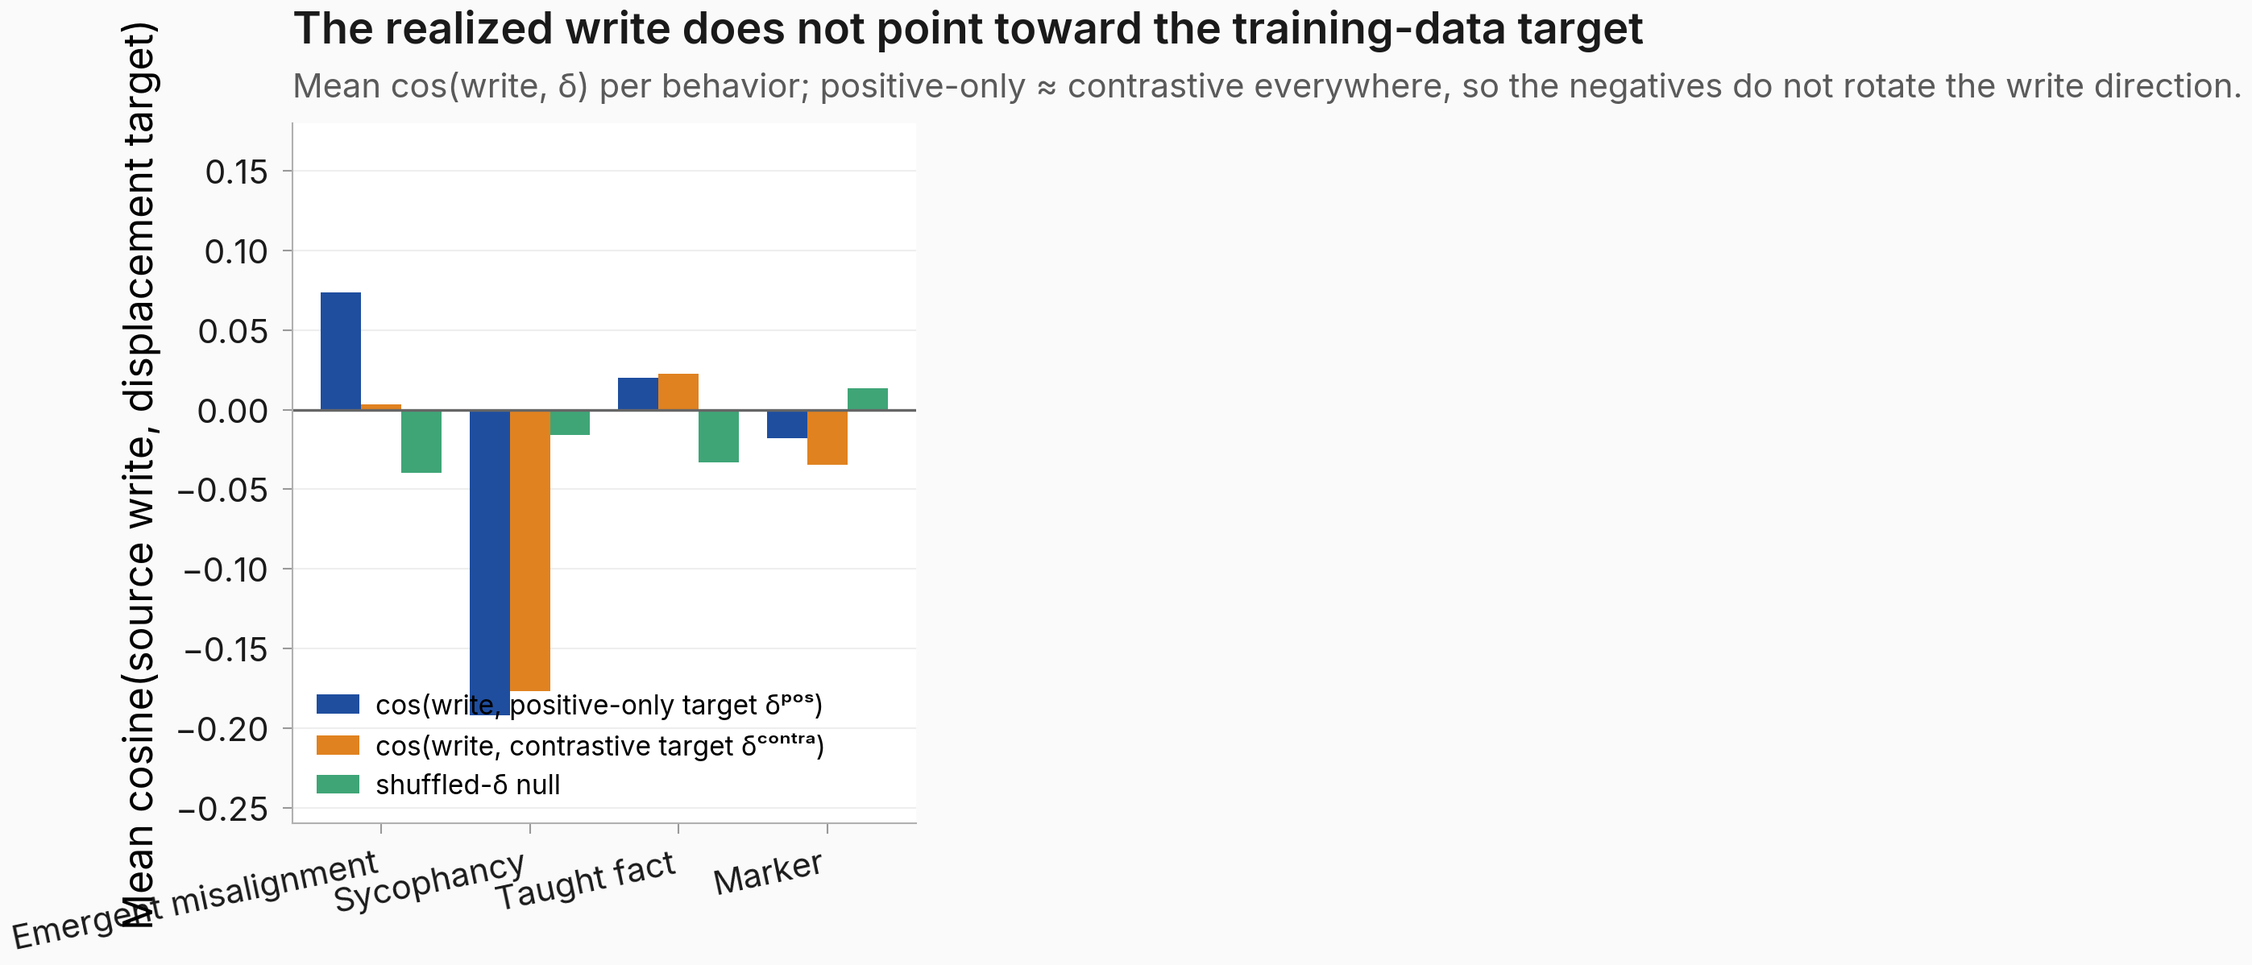
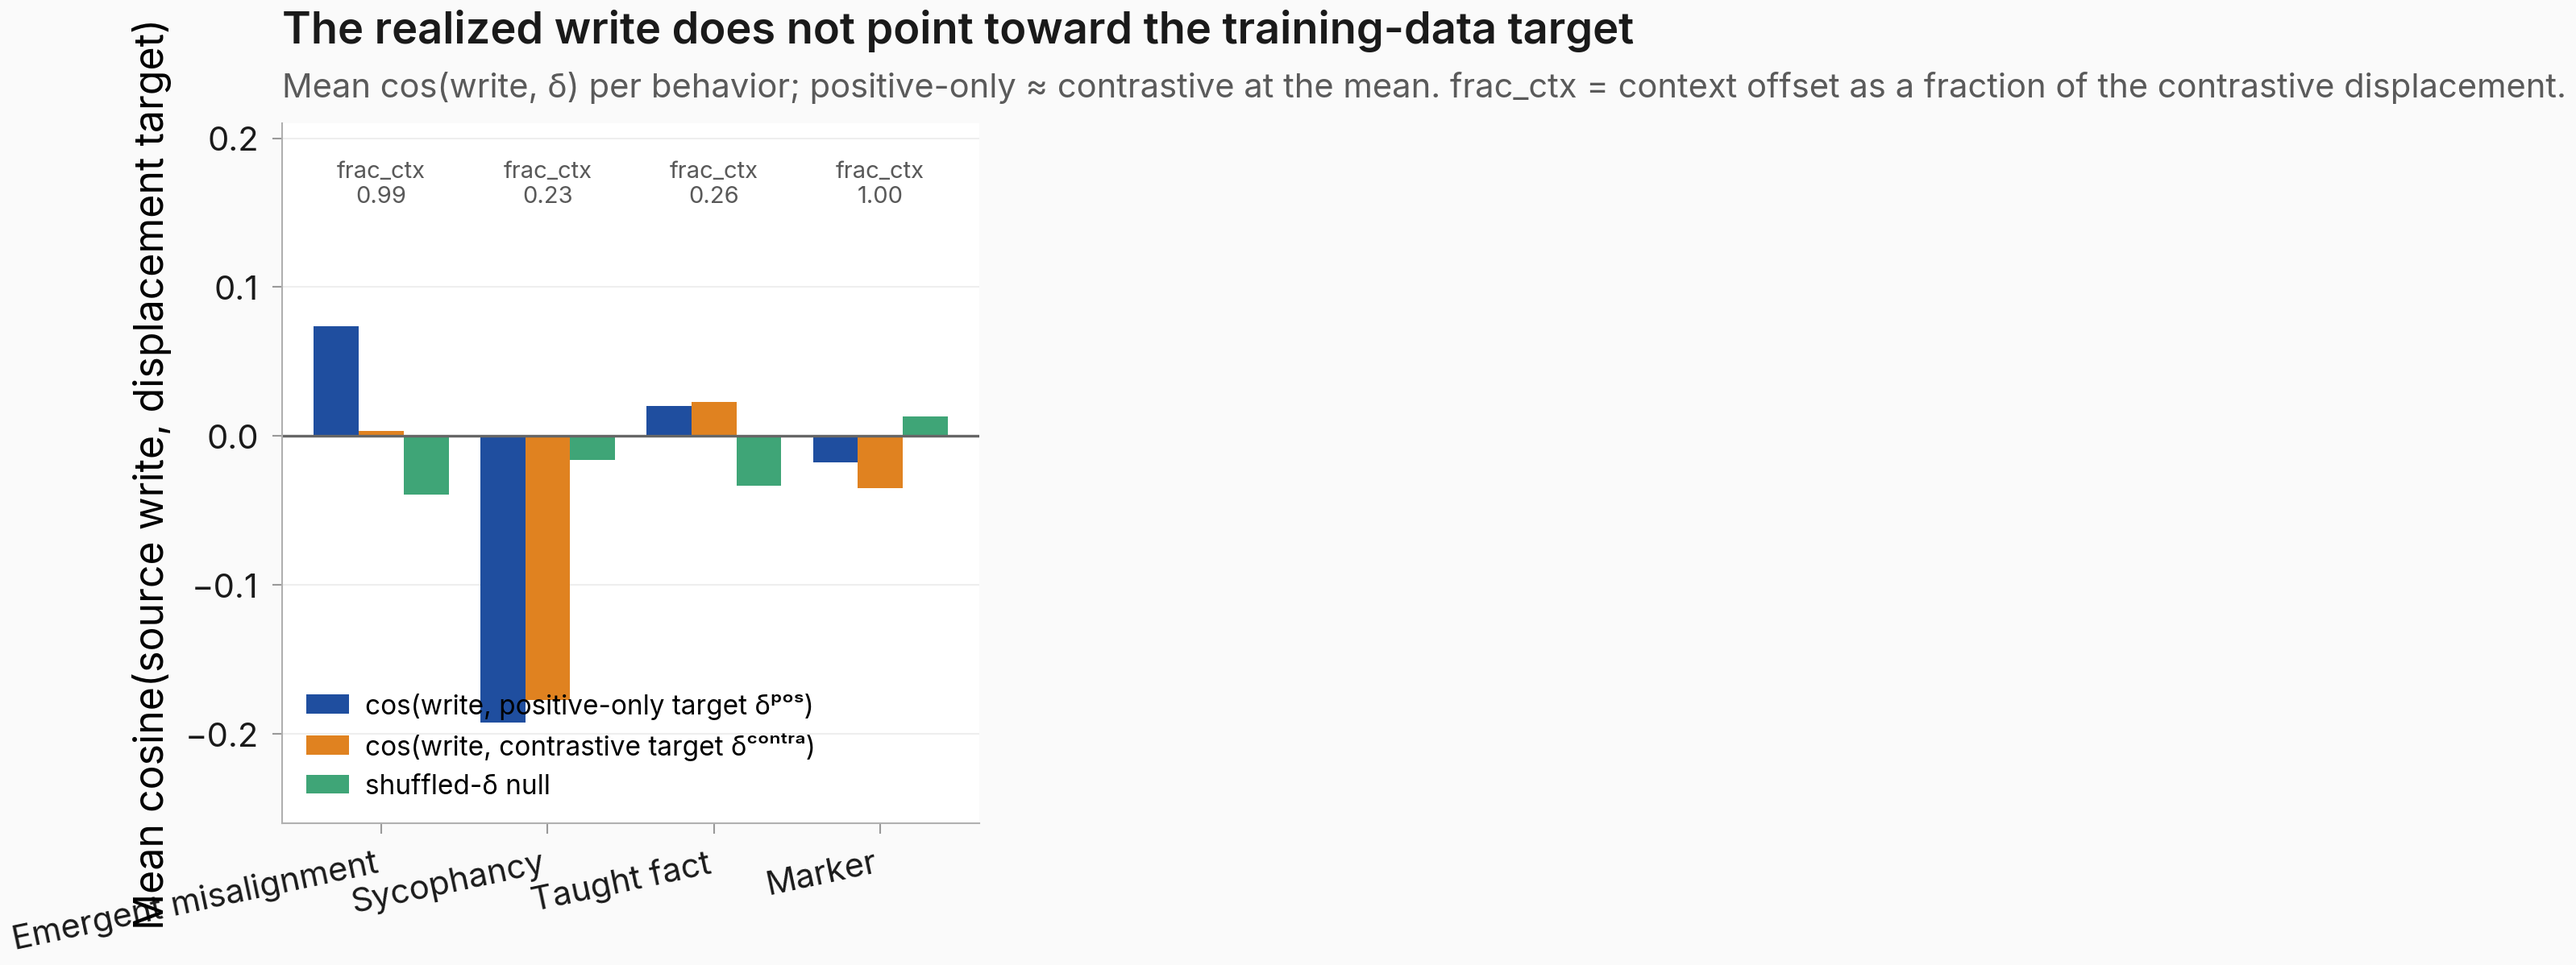
issue #667 r2: annotate frac_ctx on A3.7 write figure (interp-critic revise)

diff --git a/scripts/issue667_figures.py b/scripts/issue667_figures.py
@@ -324,12 +324,25 @@ def fig_a37_write():
     ax.set_xticks(x)
     ax.set_xticklabels([BEH_LABEL[b].split(" (")[0] for b in behs], rotation=12, ha="right")
     ax.set_ylabel("Mean cosine(source write, displacement target)")
-    ax.set_ylim(-0.26, 0.18)
+    ax.set_ylim(-0.26, 0.21)
     ax.legend(loc="lower left", fontsize=8, frameon=False)
+    # Annotate per-behavior mean frac_ctx (source-vs-negative context offset as a
+    # fraction of the contrastive displacement): EM's ~1.0 means the offset IS the
+    # whole displacement, which is why EM's pos/contra cosines can diverge.
+    for xi, b in zip(x, behs, strict=True):
+        fc = a37[b]["mean_frac_ctx"]
+        ax.annotate(
+            f"frac_ctx\n{fc:.2f}",
+            (xi, 0.185),
+            ha="center",
+            va="top",
+            fontsize=7,
+            color="0.35",
+        )
     set_title_subtitle(
         ax,
         "The realized write does not point toward the training-data target",
-        "Mean cos(write, δ) per behavior; positive-only ≈ contrastive everywhere, so the negatives do not rotate the write direction.",
+        "Mean cos(write, δ) per behavior; positive-only ≈ contrastive at the mean. frac_ctx = context offset as a fraction of the contrastive displacement.",
     )
     savefig_paper(fig, "issue_667/fig_a37_write", dir=str(ROOT / "figures") + "/")
     plt.close(fig)
